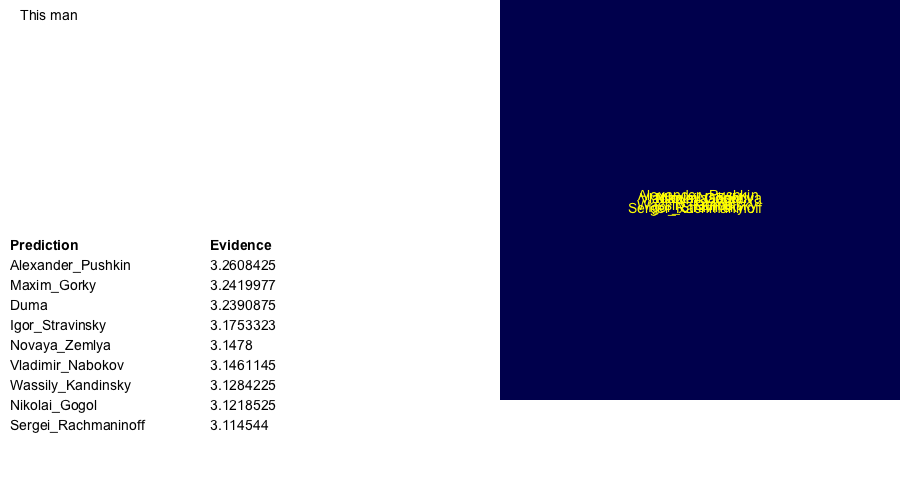
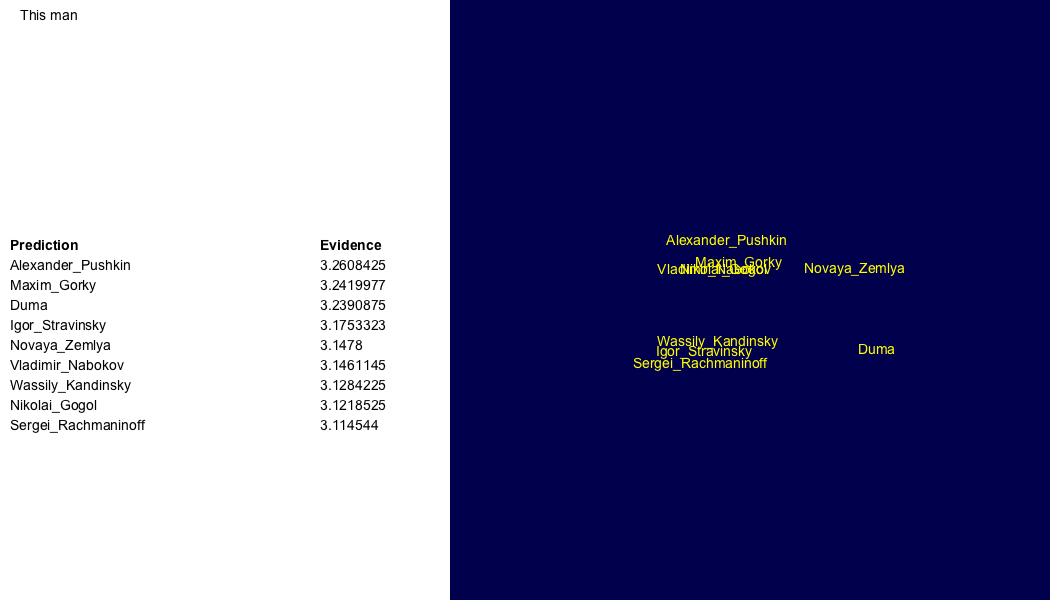
Make it look prettier

diff --git a/visualization.py b/visualization.py
@@ -12,8 +12,9 @@ import re
 # For paths, the home is qb.
 
 FRAMES_PER_SECOND = 1
-WIDTH, HEIGHT = 900, 500
+WIDTH, HEIGHT = 1050, 600
 ITERATIONS = 2
+PLOT_SIDE_LENGTH = 600
 
 # draw wrapped text
 def wrapped_text( ctx, text, x, y, width ):
@@ -46,7 +47,6 @@ def unnormalize_wikipedia_title(title):
     :param title: raw wikipedia title
     :return: normalized title
     """
-    print('Un-normalizing wikipedia title.')
     return title.replace('_', ' ')
 
 # plot a guess
@@ -76,7 +76,7 @@ def create_table( ctx, left, top, array ):
 		for cell in row:
 				ctx.move_to( x, y )
 				ctx.show_text( cell )
-				x = x + 200
+				x = x + 310
 		x = left
 		y = y + 20
 		ctx.select_font_face("Arial", cairo.FONT_SLANT_NORMAL, cairo.FONT_WEIGHT_NORMAL )
@@ -93,11 +93,10 @@ def draw_visualization(ctx, width, height, i, frame, have_vectors_data=False ):
 	ctx.select_font_face("Arial", cairo.FONT_SLANT_NORMAL, cairo.FONT_WEIGHT_NORMAL)
 	ctx.move_to( 10, 20 )
 	ctx.set_source_rgb( 0, 0, 0 )
-	print(frame)
 	wrapped_text( ctx, frame[0], 20, 20, 440 )
 
 	# draw background rectangle for the plot
-	ctx.rectangle( 500, 0, 400, 400 )
+	ctx.rectangle( WIDTH - PLOT_SIDE_LENGTH, 0, PLOT_SIDE_LENGTH, PLOT_SIDE_LENGTH )
 	ctx.set_source_rgb( 0, 0, 0.3 )
 	ctx.fill()
 
@@ -106,7 +105,7 @@ def draw_visualization(ctx, width, height, i, frame, have_vectors_data=False ):
 		table.append([ frame[i][0], str(frame[i][1]) ] )
 		if ( have_vectors_data is not False ):
 			point = frame[i][2]
-			plot( ctx, 700, 200, 40, frame[i][0], point[ 0 ], point [ 1 ] )
+			plot( ctx, WIDTH - PLOT_SIDE_LENGTH / 2, PLOT_SIDE_LENGTH / 2, 400, frame[i][0], point[ 0 ], point [ 1 ], y_to_x_scale=1 )
 
 	create_table( ctx, 10, 250, table )
 
@@ -159,15 +158,8 @@ def visualize( guesses_data=None, cached_wikipedia=None, w2vmodel=None ):
 		print('Loading guesses_expo.')
 		guesses_data = load_guesses()
 		print('Done loading guesses_dev.')
-	# return guesses_data
-	# return guesses_data.groupby( 'qnum' )
-	# values = guesses_data.groupby( 'qnum' ).sum().groupby(['sentence','token']).sum().values
 	values = guesses_data.values
-	# groupped_guesses_data = guesses_data.groupby('qnum').mean().groupby( ['sentence', 'token' ] ).mean()
-	# print(groupped_guesses_data)
-	# return
 	questions_lookup = load_pickle('../visualization/questions_lookup.pkl')
-	# desctest_2d = reduce_to_2d( load_numpy('files/rnndesctest.npy') )
 	file_names = []
 	frames = []
 	last_token = None
@@ -195,29 +187,21 @@ def visualize( guesses_data=None, cached_wikipedia=None, w2vmodel=None ):
 
 			# find word2vectors for each guess, and fit PCA model on them
 			vectors=[]
-			# print(frame)
 			for i in range(1, len(frame)):
-				# print(frame[i][0])
 				answer = unnormalize_wikipedia_title(frame[i][0])
 				wiki_page = cached_wikipedia[answer]
 				wikipedia_words = getWords( wiki_page.content )
 				wikipedia_word_vectors = []
 				for word in wikipedia_words:
-					# print(word)
 					try:
 						wikipedia_word_vector = w2vmodel.wv[word]
 					except:
 						not_in_vocab.append(word)
-					# print(wikipedia_word_vector)
 					wikipedia_word_vectors.append( wikipedia_word_vector )
-				# print(wikipedia_word_vectors)
 				vector = numpy.array(wikipedia_word_vectors).mean(axis=0)
-				# print(i)
 				vectors.append(vector)
 			# TODO, get question average vector and origin around that
-			# print(type(vectors), len(vectors), vectors[0])
 			vectors2d = reduce_to_2d(numpy.array(vectors))
-			print(vectors2d) #[[ 0.]]
 
 			# add 2d vector to each guess info array
 			for i in range(0, len(vectors2d)):
